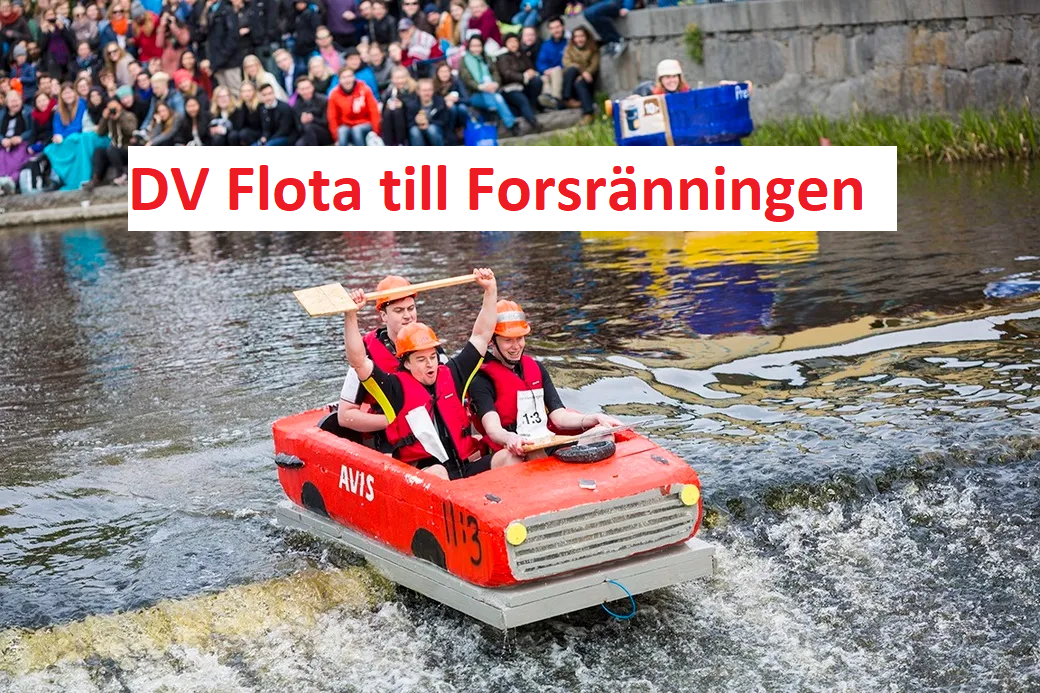
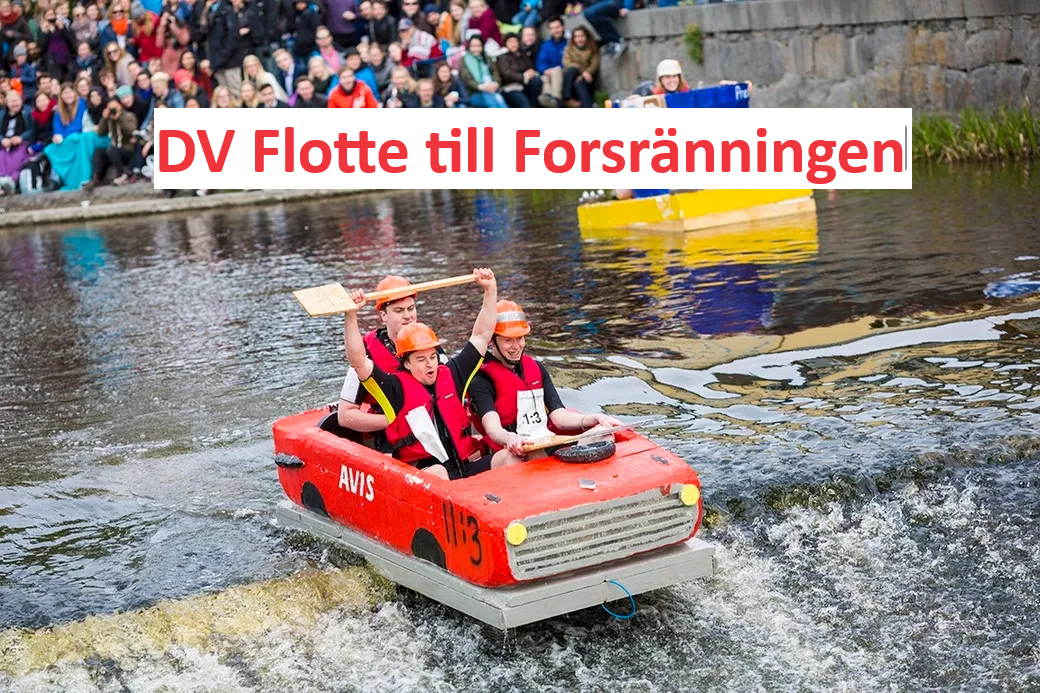
bersh + halvdag lika info

Changed region(s): [[0.1231, 0.1515, 0.8923, 0.3333]]

diff --git a/content/english/posts/2024/01-31_invitation_to_half_day_for_equal_opportunities_8_2.md b/content/english/posts/2024/01-31_invitation_to_half_day_for_equal_opportunities_8_2.md
@@ -1,0 +1,29 @@
+---
+
+title: Invitation to half day for equal opportunities 8/2
+date: 2024-01-31 08:01:59
+thumbnail: "/img/2024/halvdag-lika-vilkor.png"
+authors: ["Informationsansvarig"]
+tags: 
+  - "Info"
+  - "Evenemang"
+
+---
+Hello, Uppsala university in collaboration with UTN and Uppsala studentkår invites you to a half day for equal opportunities. Here is the information they attached about the event :) 
+
+Welcome to an afternoon about equal conditions with focus on students and postgraduates' education and well being! (The presentations will be held in Swedish, questions and discussions in both English and Swedish)
+When? Thursday 8th of february 2024, 13:00-16:00
+Where? Häggsalen, Ångström
+Who? Employees and students at Uppsala university
+Registration to participate and receive a lunch sandwich no later than 1st of february 2024 via KURT: https://doit.medfarm.uu.se/bin/kurt3/kurt/102955
+Lunch sandwich will be served outside of Häggsalen at 12:00-12:50
+Contact: Ann-Sofie Wigg Bodin, ann-sofie.wigg-bodin@uu.se
+Program
+13:00-13:30 The student unions start the afternoon and welcomes everyone
+13:30-14:00 Warm-up with Cristoffer Nyqvist, comedian, broadcaster and actor
+BREAK 14:00-14:15
+14:15-14:40 The Student and PHD student ombudsperson from Uppsala student union inform about their work
+14:40-15:05 The student health present their work with supporting the student well being
+BREAK 15:05-15:20
+15:20-15:45 The nations present their preemptive work with student welfare
+15:45-16:00 Closure

diff --git a/content/swedish/posts/2024/01-31_halvdag_för_lika_villkor_8_2.md b/content/swedish/posts/2024/01-31_halvdag_för_lika_villkor_8_2.md
@@ -1,0 +1,29 @@
+---
+
+title: Halvdag för lika villkor 8/2
+date: 2024-01-31 07:59:48
+thumbnail: "/img/2024/halvdag-lika-vilkor.png"
+authors: ["Informationsansvarig"]
+tags: 
+  - "Info"
+  - "Evenemang"
+
+---
+Hej, UU i samarbete med UTN och US inviterar till en halvdag för lika villkor. Här är informationen de bifogade om evenemanget :) 
+
+Välkomna till en eftermiddag om lika villkor med fokus på studenters och doktoranders utbildning och välmående!När? torsdag 8 februari 2024 kl.13.00–16.00
+Var? Häggsalen, Ångström
+Vem? anställda och studenter vid Uppsala universitet
+Anmälan att delta och lunchsmörgås senast den 1 februari 2024 via KURT: https://doit.medfarm.uu.se/bin/kurt3/kurt/102955
+Lunchsmörgås serveras utanför Häggsalen kl.12.00−12.50
+Kontakt: Ann-Sofie Wigg Bodin, ann-sofie.wigg-bodin@uu.seProgram (Presentationerna är på svenska. Diskussion och frågor på engelska och svenska)
+13.00−13.30 Studentkårerna inleder eftermiddagen och hälsar alla välkomna
+13.30−14.00
+Uppvärmning med Christoffer Nyqvist, komiker, programledare och skådespelare.
+PAUS 14.00−14.15
+14.15−14.40
+Student- och doktorandombudet på Uppsala studentkår informerar om sitt arbete
+14.40−15.05 Studenthälsan presenterar sitt arbete för att stödja studenternas välmående.
+PAUS 15.05−15.20
+15.20−15.45 Nationerna presenterar sitt förebyggande studiesociala arbete.
+15.45−16.00 Avslutning

diff --git a/content/swedish/posts/2024/01-30_utlottning_av_sektionsflotta_till_forsränningen!.md b/content/swedish/posts/2024/01-30_utlottning_av_sektionsflotta_till_forsränningen!.md
@@ -1,6 +1,6 @@
 ---
 
-title: Utlottning av sektionsflotta till Forsränningen!
+title: Utlottning av sektionsflotte till Forsränningen!
 date: 2024-01-30 16:44:04
 thumbnail: "/img/2024/Fors.png"
 authors: ["Informationsansvarig"]
@@ -11,9 +11,9 @@ tags:
 
 ---
 Hej alla i DV!
-I år har vi fått möjligheten att lotta ut en sektionsflotta till @forsränningnen. Om du känner dig manat till att vara kapten för denna flotta genom Fyrisån så är det bara att fylla i nedanstående formulär. 
+I år har vi fått möjligheten att lotta ut en sektionsflotte till forsränningnen. Om du känner dig manat till att vara kapten för denna flotte genom Fyrisån så är det bara att fylla i nedanstående formulär. 
 
-Man får vara 2-4 personer i flottan, och man kan välja mellan en vanlig flotta eller en miljöflotta, som är en flotta vars botten är gammal från tidigare år, som fortfarande duger fint att använda i år. 
+Man får vara 2-4 personer i flotten, och man kan välja mellan en vanlig flotte eller en miljöflotte, som är en flotte vars botten är gammal från tidigare år, som fortfarande duger fint att använda i år. 
 
 Vad kostar det att vara med i forsränningen? Det kostar 1500 kr, med möjligheter för flera kostnader senare vid uthyrning av utrustning. Utöver det måste laget också jobba som vollisar åt forsränningen minimum 8 pass på 4 timmar var. 
 

diff --git a/content/english/posts/2024/01-30_lottery_of_the_section_flotta_in_forsränningen.md b/content/english/posts/2024/01-30_lottery_of_the_section_flotta_in_forsränningen.md
@@ -1,6 +1,6 @@
 ---
 
-title: Lottery of the section flotta in forsränningen
+title: Lottery of the section raft in forsränningen
 date: 2024-01-30 16:44:59
 thumbnail: "/img/2024/Fors.png"
 authors: ["Informationsansvarig"]
@@ -11,7 +11,7 @@ tags:
 
 ---
 Hello everyone in DV!
-This year we have the opportunity to raffle off a section fleet to @forsränningnen. If you feel compelled to be the captain of this fleet through Fyrisån, just fill out the form below.
+This year we have the opportunity to raffle off a section raft to @forsränningnen. If you feel compelled to be the captain of this raft through Fyrisån, just fill out the form below.
 
 You can have 2-4 people in the raft, and you can choose between a regular raft or an environmental raft, which is a raft whose bottom is old from previous years, which is still fine to use this year.
 

diff --git a/content/swedish/posts/2024/01-31_bärsha_genom_tidverna.md b/content/swedish/posts/2024/01-31_bärsha_genom_tidverna.md
@@ -1,0 +1,21 @@
+---
+
+title: BÄRsHa genom tiDVerna
+date: 2024-01-31 08:24:17
+thumbnail: "/img/2024/BÄRsHa.png"
+authors: ["Informationsansvarig"]
+tags: 
+  - "DVKV"
+  - "Alla"
+
+---
+Är du också trött på nutidens stress och press? Tycker du att det var bättre förr, och svävar dina dagdrömmar iväg mot svunna tider? Frukta icke, utan möt oss istället på Bridgens hus i februari för en kväll du sent kommer glömma. H, DV och BÄR åker på gemensam tidsresa, och du är bjuden! Biljetterna släpps i orbi-appen den 1a februari kl 12.15! 🌟
+
+När? 16e februari
+Var? Bridgens Hus
+Vem? Sektionsmedlemmar i H, BÄR och DV
+Tema? Tidsresa/TBA + ovve
+
+https://link.orbiapp.io/G17G
+
+https://www.facebook.com/events/3537504079822077/?ref=newsfeed

diff --git a/content/english/posts/2024/01-31_bärsha_genom_tidverna.md b/content/english/posts/2024/01-31_bärsha_genom_tidverna.md
@@ -1,0 +1,20 @@
+---
+
+title: BÄRsHa genom tiDVerna
+date: 2024-01-31 08:25:07
+thumbnail: "/img/2024/BÄRsHa.png"
+authors: ["Informationsansvarig"]
+tags: 
+  - "DVKV"
+  - "Alla"
+
+---
+Are you also tired of all the stress nowadays? Do you miss the good old days, and does your daydreams take you to bygone eras? Do not fear! Instead, meat us at Bridgens Hus in February for a night you won’t forget. H, DV and BÄR are going on a timetravel together, and you are invited! The tickets are released in the orbi-app the 1st of februari at 12.15.
+When? 16th of February
+Where? Bridgens Hus
+Who? Members of H, BÄR and DV
+Theme: Timetravel/TBA + ovve
+
+https://link.orbiapp.io/G17G
+
+https://www.facebook.com/events/3537504079822077/?ref=newsfeed
